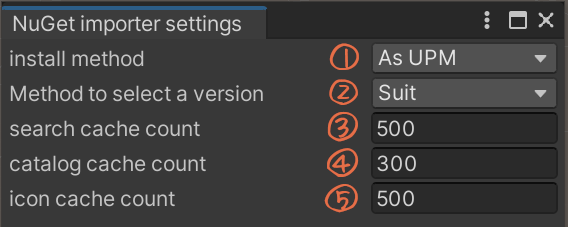
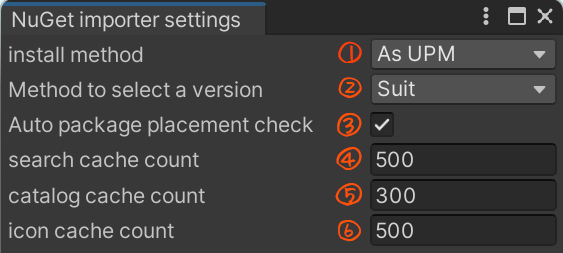
Update document.

Changed region(s): [[0.0, 0.0, 1.0, 1.0]]

diff --git a/docFX/documentation_jp/usage.md b/docFX/documentation_jp/usage.md
@@ -37,6 +37,20 @@
 1. [リリースページ](https://github.com/kumaS-nu/NuGet-importer-for-Unity/releases)へ行き、必要なバージョンのzipファイルをダウンロードする。
 1. zipファイルを解凍し、中の .unitypackage をプロジェクトにインポートする。
 
+## .gitignoreの設定
+
+インストールしたパッケージは Git の監理外にしたいと思います。その場合は、`.gitignore`に以下を追加してください。インストールしたパッケージ一覧は`Asset/package.config`で管理され、このファイルを共有すればパッケージの復元ができます。
+```bash
+# NuGet importer
+/[Aa]ssets/[Pp]ackages.meta
+/[Aa]ssets/[Pp]ackages/
+
+/[Nn]u[Gg]et/
+
+/[Pp]ackages/*/
+!/[Pp]ackages/your embedded package to share with git/
+```
+
 ## Unityでの使い方
 
 ### メニューアイテム
@@ -44,7 +58,7 @@
 ![メニューアイテム](../images/MenuItem.png)
 
 - Manage packages ・・・ パッケージを管理するメインウィンドウを表示する。
-- Repair packages ・・・ インストールされているパッケージの依存関係を最適化し、パッケージを修復する。
+- Repair packages ・・・ インストールされていないパッケージを修復する。
 - Delete cache ・・・ キャッシュを削除する。（ただし、アセンブリがロードされるたびにキャッシュは消える。）
 - NuGet importer settings ・・・ NuGet importer に関する設定をするウィンドウを表示する。
 - Check update ・・・ 更新があるか確認する。
@@ -70,6 +84,7 @@
 
 1. インストール先を指定する。（UPMを推奨。）
 1. 依存関係のバージョン決定方法を指定する。（Suitを推奨。）
+1. 起動時にパッケージがインストールされているか確認するか。パッケージのディレクトリが存在すればインストール済みと判断。インストールされていないパッケージを見つけた場合、自動的に修復する。（オンを推奨。）
 1. 検索結果のキャッシュする最大数。（0以下はキャッシュしない。）
 1. カタログのキャッシュする最大数。（0以下はキャッシュしない。）
 1. アイコンのキャッシュする最大数。（0以下はキャッシュしない。）

diff --git a/docFX/documentation/usage.md b/docFX/documentation/usage.md
@@ -37,6 +37,20 @@
 1. Go to the [release page](https://github.com/kumaS-nu/NuGet-importer-for-Unity/releases) and download the zip file of the version you need.
 1. Extract the zip file and import the .unitypackage into your project.
 
+## Configure of .gitignore
+
+You may want to keep installed packages to out of git's tracking. In that case, you can add the following to `.gitignore`. The list of installed packages is managed in `Asset/package.config`, and you can restore packages by sharing this file.
+```bash
+# NuGet importer
+/[Aa]ssets/[Pp]ackages.meta
+/[Aa]ssets/[Pp]ackages/
+
+/[Nn]u[Gg]et/
+
+/[Pp]ackages/*/
+!/[Pp]ackages/your embedded package to share with git/
+```
+
 ## Usage in Unity
 
 ### Menu item
@@ -69,6 +83,7 @@
 
 1. Specify the installation location. （It is recommended to use UPM.)
 1. Specify the method for determining the package version when solve dependency. (Suit is recommended.)
+1. Specifies whether the package is installed at startup. If the package directory exists, it is determined that the package is already installed. If missing packages are found, they are automatically installed. ( It is recommended to turn it on.)
 1. The maximum number of search results to cache. (0 or less is not cached.)
 1. The maximum number of catalog to cache. (0 or less is not cached.)
 1. The maximum number of icon to cache. (0 or less is not cached.)

diff --git a/NuGetImporterForUnity/Packages/NuGet Importer/Documentation~/README_jp.md b/NuGetImporterForUnity/Packages/NuGet Importer/Documentation~/README_jp.md
@@ -54,9 +54,24 @@
 
 1. インストール先を指定する。（UPMを推奨。）
 1. 依存関係のバージョン決定方法を指定する。（Suitを推奨。）
+1. 起動時にパッケージがインストールされているか確認するか。パッケージのディレクトリが存在すればインストール済みと判断。インストールされていないパッケージを見つけた場合、自動的に修復する。（オンを推奨。）
 1. 検索結果のキャッシュする最大数。（0以下はキャッシュしない。）
 1. カタログのキャッシュする最大数。（0以下はキャッシュしない。）
 1. アイコンのキャッシュする最大数。（0以下はキャッシュしない。）
+
+## .gitignoreの設定
+
+インストールしたパッケージは Git の監理外にしたいと思います。その場合は、`.gitignore`に以下を追加してください。インストールしたパッケージ一覧は`Asset/package.config`で管理され、このファイルを共有すればパッケージの復元ができます。
+```bash
+# NuGet importer
+/[Aa]ssets/[Pp]ackages.meta
+/[Aa]ssets/[Pp]ackages/
+
+/[Nn]u[Gg]et/
+
+/[Pp]ackages/*/
+!/[Pp]ackages/your embedded package to share with git/
+```
 
 ## 注意点
 

diff --git a/NuGetImporterForUnity/Packages/NuGet Importer/Documentation~/README.md b/NuGetImporterForUnity/Packages/NuGet Importer/Documentation~/README.md
@@ -55,9 +55,24 @@ This is also fully support for native plugins.
 
 1. Specify the installation location. （It is recommended to use UPM.)
 1. Specify the method for determining the package version when solve dependency. (Suit is recommended.)
+1. Specifies whether the package is installed at startup. If the package directory exists, it is determined that the package is already installed. If missing packages are found, they are automatically installed. ( It is recommended to turn it on.)
 1. The maximum number of search results to cache. (0 or less is not cached.)
 1. The maximum number of catalog to cache. (0 or less is not cached.)
 1. The maximum number of icon to cache. (0 or less is not cached.)
+
+## Configure of .gitignore
+
+You may want to keep installed packages to out of git's tracking. In that case, you can add the following to `.gitignore`. The list of installed packages is managed in `Asset/package.config`, and you can restore packages by sharing this file.
+```bash
+# NuGet importer
+/[Aa]ssets/[Pp]ackages.meta
+/[Aa]ssets/[Pp]ackages/
+
+/[Nn]u[Gg]et/
+
+/[Pp]ackages/*/
+!/[Pp]ackages/your embedded package to share with git/
+```
 
 ## Note
 
